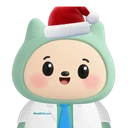
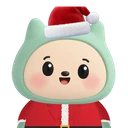
Mascot: Santa suit for the Christmas outfit (red coat, fur trim, belt + buckle)
The lab coat in the body and arm textures is recoloured and trimmed by
smoothlife-mascot/christmas/build_santa.py; the engine loads <part>-christmas
for those parts when the outfit is Christmas.

diff --git a/src/components/mascot/smoothie-engine.ts b/src/components/mascot/smoothie-engine.ts
@@ -24,7 +24,7 @@ export const VIEW_BUST: View = { x0: 110, x1: 890, y0: -40, y1: 740 };
  * so a changed file under the same URL never reaches anyone who has visited
  * before — the query string makes it a new URL.
  */
-export const MASCOT_ASSET_VERSION = "2026-10-30b";
+export const MASCOT_ASSET_VERSION = "2026-10-30c";
 export const mascotAsset = (file: string) => `/mascot/rig/${file}?v=${MASCOT_ASSET_VERSION}`;
 
 /** Gestures and moods the storefront may trigger (sad / angry / love are left out on purpose). */
@@ -123,6 +123,11 @@ const HAT_BOX = [346, -51, 690, 157];
 const PUMPKIN_BOX = [11, 740, 225, 956];
 // Christmas props: smoothlife-mascot/christmas/build_christmas.py.
 const SANTA_HAT_BOX = [374, -71, 718, 167];
+// Outfits that change clothes, not just add props: these parts load
+// "<part>-<theme>.webp" instead (Santa suit: smoothlife-mascot/christmas/build_santa.py).
+const SUIT: Partial<Record<MascotTheme, string[]>> = {
+  christmas: ["body", "arm-left", "arm-left-down", "arm-right", "arm-right-up", "arm-left-hand", "arm-right-hand"],
+};
 const GIFT_BOX = [20, 755, 217, 959];
 const LAYERS: LayerDef[] = [
   // stands on the ground beside the feet — the "world" bone never moves, so it stays put when he jumps
@@ -173,6 +178,8 @@ export class SmoothieEngine {
   private view: View;
   private reduce: boolean;
   private base: string;
+  private suit: Set<string>;
+  private theme: MascotTheme;
   private onGround?: EngineOptions["onGround"];
 
   private cur: string | null = null; private curT = 0; private prevPose: Pose | null = null;
@@ -202,6 +209,8 @@ export class SmoothieEngine {
     // Not in BONES, so solve() never moves it: for props that stand on the ground.
     this.B.world = { name: "world", parent: null, px: 0, py: 0, m: [1, 0, 0, 1, 0, 0] };
     const theme = opts.theme ?? "default";
+    this.theme = theme;
+    this.suit = new Set(SUIT[theme] ?? []);
 
     const sh = (t: number, src: string) => { const s = gl.createShader(t); gl.shaderSource(s, src); gl.compileShader(s); return s; };
     const prog = gl.createProgram();
@@ -248,7 +257,8 @@ export class SmoothieEngine {
   }
   private async loadTexture(l: Layer) {
     const gl = this.gl;
-    const url = `${this.base}${l.src ?? l.name}.webp?v=${MASCOT_ASSET_VERSION}`;
+    const part = l.src ?? l.name;
+    const url = `${this.base}${part}${this.suit.has(part) ? `-${this.theme}` : ""}.webp?v=${MASCOT_ASSET_VERSION}`;
     const r = await fetch(url);
     if (!r.ok) throw new Error(`${url}: ${r.status}`);
     const bmp = await createImageBitmap(await r.blob(), { premultiplyAlpha: "premultiply" });
